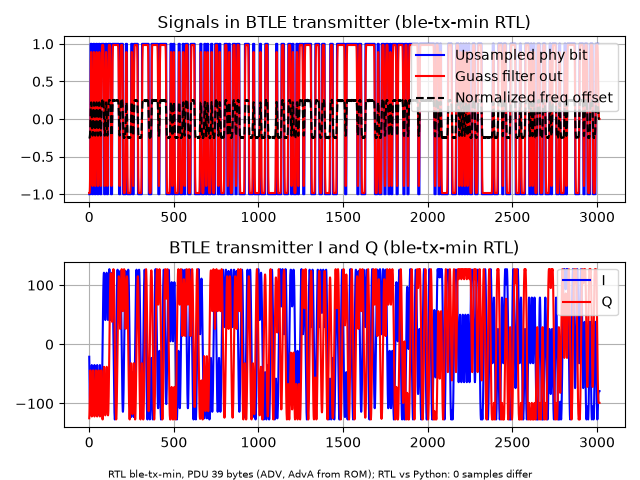
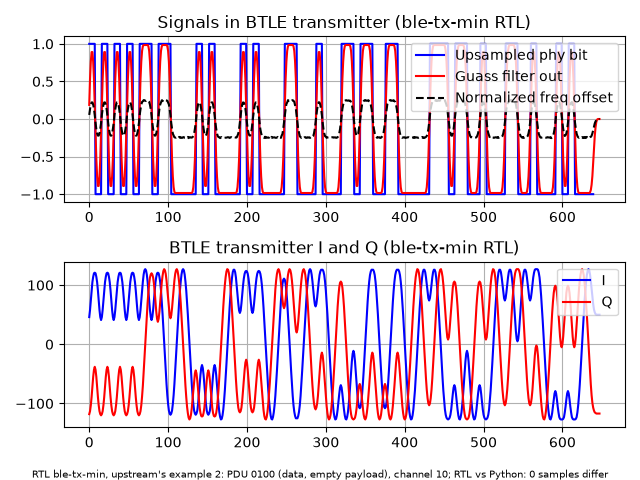
figures: py-fig3/py-fig4 with upstream's own packet, example 2, beside upstream's
The side-by-side figures showed different packets: upstream's example 2
(PDU 0100, channel 10, 656 samples) against our 39-byte ADV PDU (3024
samples), and py-fig4 used 20 ppm where upstream's run uses 0 ppm. The RTL
now sends example 2 itself (channel 10, AA 0x11850A1B, CRC init 0x123456,
20 dB, 0 ppm): 0 samples differ from the Python model, CRC OK. The 39-byte
ADV figures stay as tx_min_py_fig3_adv.png and tx_min_py_fig4_adv.png.

diff --git a/scripts/figures/tx_min_figures.py b/scripts/figures/tx_min_figures.py
@@ -13,8 +13,11 @@ The transmitter is verilog/btle_tx.v with GAUSS_TABLE = 1 (as the branch is meas
 upstream testbench verilog/btle_tx_tb.v plus a monitor of the upsampled bit and the Gaussian filter
 output; everything after it (channel, receiver) is python/btlelib.py, as in the upstream figures.
 Each RTL waveform is also compared with python/btlelib.py's btle_tx: the figures print the number of
-differing samples (0 expected). The packets are Legacy Advertising PDUs (channel 37, the advertising
-access address and CRC init) with the chip's AdvA, ADV_ADDRESS of verilog/btle_tx.v.
+differing samples (0 expected). py-fig3 and py-fig4 are drawn twice: for upstream's own packet
+(example 2 of test_vector_for_btle_verilog.py, the one in open_btle_baseband_chip/py-fig3.png and
+py-fig4.png, so both figures cover the same 640 samples) and for a Legacy Advertising PDU of 39 bytes
+(suffix _adv). The BER packets are Legacy Advertising PDUs (channel 37, the advertising access
+address and CRC init) with the chip's AdvA, ADV_ADDRESS of verilog/btle_tx.v.
 """
 
 from __future__ import annotations
@@ -43,6 +46,9 @@ CAD = Path(os.environ.get("OSS_CAD", str(Path.home() / "eda/oss-cad-suite-202609
 CHANNEL, AA, CRC_INIT = 37, "D6BE898E", "555555"
 # AdvData of upstream's BER packet (test_btle_ber.py): AD local name "SDR/Bluetooth/Low/Energy" + 5 bytes
 ADV_DATA = bytes.fromhex("19095344522f426c7565746f6f74682f4c6f772f456e657267791234567890")
+# Upstream's py-fig3/py-fig4: `python test_vector_for_btle_verilog.py 2` (20 dB, 0 ppm), a data packet
+# with an empty payload (LLID 1, length 0): 80 bits, 640 samples. Its 2 bytes never reach AdvA (bytes 2..7).
+EXAMPLE2 = dict(pdu=bytes.fromhex("0100"), channel=10, aa="1B0A8511", crc_init="123456", snr=20, ppm=0)
 
 TRACE = r"""
 `timescale 1ns/1ps
@@ -102,14 +108,14 @@ class RtlTx:
         self.taps = np.int8(np.round(128 * bl.gauss_fir_gen()))
         self.cos, self.sin = bl.sin_cos_gen(64)
 
-    def run(self, pdu: bytes, tag: str) -> dict:
+    def run(self, pdu: bytes, tag: str, channel: int = CHANNEL, aa: str = AA, crc_init: str = CRC_INIT) -> dict:
         d = self.work / f"run_{tag}"
         d.mkdir()
         for name, data in [("gauss_filter_tap", self.taps), ("cos_table", self.cos), ("sin_table", self.sin)]:
             np.savetxt(d / (name + ".txt"), data, fmt="%d")
         pdu_bit = bl.hex_string_to_bit(pdu.hex())
-        i, q, phy_bit, phy_bit_upsample = bl.btle_tx(pdu_bit, CHANNEL, bl.hex_string_to_bit(CRC_INIT), AA)
-        (d / "btle_config.txt").write_text(f"{len(pdu_bit):x}\n{CHANNEL:x}\n{CRC_INIT}\n{AA}\n")
+        i, q, phy_bit, phy_bit_upsample = bl.btle_tx(pdu_bit, channel, bl.hex_string_to_bit(crc_init), aa)
+        (d / "btle_config.txt").write_text(f"{len(pdu_bit):x}\n{channel:x}\n{crc_init}\n{aa}\n")
         (d / "btle_tx_test_input.txt").write_text("".join(f"{v:02x}\n" for v in pdu))
         np.savetxt(d / "btle_tx_test_output_i_ref.txt", i, fmt="%d")
         np.savetxt(d / "btle_tx_test_output_q_ref.txt", q, fmt="%d")
@@ -134,13 +140,25 @@ def style(ax, title):
 
 
 def fig_tx(out_dir: Path) -> None:
+    adv = dict(pdu=adv_pdu(ADV_DATA), channel=CHANNEL, aa=AA, crc_init=CRC_INIT, snr=20, ppm=20)
     with tempfile.TemporaryDirectory(prefix="tx-min-fig-") as t:
         rtl = RtlTx(Path(t))
-        pdu = adv_pdu(ADV_DATA)
-        r = rtl.run(pdu, "fig")
+        summary = {
+            "example2": _fig_pair(out_dir, rtl, EXAMPLE2, "",
+                                  f"upstream's example 2: PDU 0100 (data, empty payload), channel {EXAMPLE2['channel']}"),
+            "adv": _fig_pair(out_dir, rtl, adv, "_adv", f"PDU {len(adv['pdu'])} bytes (ADV, AdvA from ROM), channel {CHANNEL}"),
+        }
+    (out_dir / "tx_min_figures_tx.json").write_text(json.dumps(summary, indent=2) + "\n")
+    print(json.dumps(summary))
+
+
+def _fig_pair(out_dir: Path, rtl: RtlTx, pkt: dict, suffix: str, what: str) -> dict:
+    """py-fig3 and py-fig4 for one packet, the RTL as the transmitter."""
+    pdu, channel, aa, crc_init = pkt["pdu"], pkt["channel"], pkt["aa"], pkt["crc_init"]
+    r = rtl.run(pdu, "fig" + suffix, channel, aa, crc_init)
     i, q = r["i"].astype(float), r["q"].astype(float)
     fo, _ = bl.check_realtime_fo(i, q)
-    note = f"RTL ble-tx-min, PDU {len(pdu)} bytes (ADV, AdvA from ROM); RTL vs Python: {r['differences']} samples differ"
+    note = f"RTL ble-tx-min, {what}; RTL vs Python: {r['differences']} samples differ"
 
     # py-fig3: signals in the transmitter
     plt.figure(0, figsize=(6.4, 4.8))
@@ -155,16 +173,16 @@ def fig_tx(out_dir: Path) -> None:
     style(ax, "BTLE transmitter I and Q (ble-tx-min RTL)")
     plt.figtext(0.5, 0.005, note, ha="center", fontsize=7)
     plt.tight_layout(rect=(0, 0.03, 1, 1))
-    plt.savefig(out_dir / "tx_min_py_fig3.png", dpi=100)
+    plt.savefig(out_dir / f"tx_min_py_fig3{suffix}.png", dpi=100)
     plt.close()
 
-    # py-fig4: the receiver's decision signal, after the channel (20 dB, 20 ppm, as upstream's example)
+    # py-fig4: the receiver's decision signal, after the channel
     rng_state = np.random.get_state()
     np.random.seed(20261016)
-    i_err, q_err, _, _ = bl.add_freq_sampling_error(i, q, 20)
-    rx_i, rx_q = bl.add_noise(i_err, q_err, 20)
+    i_err, q_err, _, _ = bl.add_freq_sampling_error(i, q, pkt["ppm"])
+    rx_i, rx_q = bl.add_noise(i_err, q_err, pkt["snr"])
     np.random.set_state(rng_state)
-    rx_pdu_bit, crc_ok, num_byte_payload, _, _, _, best = bl.btle_rx(rx_i, rx_q, CHANNEL, bl.hex_string_to_bit(CRC_INIT), AA)
+    rx_pdu_bit, crc_ok, num_byte_payload, _, _, _, best = bl.btle_rx(rx_i, rx_q, channel, bl.hex_string_to_bit(crc_init), aa)
     plt.figure(1, figsize=(6.4, 4.8))
     ax = plt.subplot(211)
     ax.plot(2 * r["upsample"] - 1, "b", label="Upsampled phy bit")
@@ -184,16 +202,15 @@ def fig_tx(out_dir: Path) -> None:
     ax.plot(idx[best::bl.SAMPLE_PER_SYMBOL] - 4, sig[best::bl.SAMPLE_PER_SYMBOL], "rs", label="best phase moment")
     style(ax, "signal for decision in receiver")
     ok = crc_ok and bl.bit_to_hex_string(rx_pdu_bit) == pdu.hex()
-    plt.figtext(0.5, 0.005, f"channel 20 dB SNR, 20 ppm; Python receiver: CRC {'OK' if crc_ok else 'FAIL'}, "
+    plt.figtext(0.5, 0.005, f"channel {pkt['snr']} dB SNR, {pkt['ppm']} ppm; Python receiver: CRC {'OK' if crc_ok else 'FAIL'}, "
                 f"PDU {'equal to the one sent' if ok else 'DIFFERENT'} ({num_byte_payload} payload bytes)",
                 ha="center", fontsize=7)
     plt.tight_layout(rect=(0, 0.03, 1, 1))
-    plt.savefig(out_dir / "tx_min_py_fig4.png", dpi=100)
+    plt.savefig(out_dir / f"tx_min_py_fig4{suffix}.png", dpi=100)
     plt.close()
-    summary = dict(pdu=pdu.hex(), rtl_vs_python_differences=r["differences"], samples=len(i),
-                   rx_crc_ok=bool(crc_ok), rx_pdu_equal=bool(ok), best_phase=int(best))
-    (out_dir / "tx_min_figures_tx.json").write_text(json.dumps(summary, indent=2) + "\n")
-    print(json.dumps(summary))
+    return dict(pdu=pdu.hex(), channel=channel, access_address=aa, crc_init=crc_init, snr_db=pkt["snr"], ppm=pkt["ppm"],
+                rtl_vs_python_differences=r["differences"], samples=len(i),
+                rx_crc_ok=bool(crc_ok), rx_pdu_equal=bool(ok), best_phase=int(best))
 
 
 # ---- BER: RTL transmitter vs Python transmitter, same channel noise ----

diff --git a/docs/TX_FINAL_DECISIONS.md b/docs/TX_FINAL_DECISIONS.md
@@ -100,15 +100,21 @@ is used, and is ready in at most four AXI clocks): no stall, no new timing const
 | upstream (Python model) | `ble-tx-min` (RTL, Icarus) |
 |---|---|
 | ![upstream TX signals](../open_btle_baseband_chip/py-fig3.png) | ![ble-tx-min TX signals](../results/figures/tx-min/tx_min_py_fig3.png) |
-| example 2: a data packet of 2 bytes, channel 10 | a 39-byte ADV_NONCONN_IND (AdvA from the ROM, upstream's BER AdvData), channel 37 |
+| example 2: PDU `0100` (data, empty payload), channel 10 | the same packet: PDU `0100`, channel 10, AA 0x11850A1B, CRC init 0x123456 |
 
 Top: the upsampled PHY bit (±1), the Gaussian filter's output (red, normalized) and the normalized
-frequency deviation measured on the I/Q samples (dashed); bottom: I and Q. Upstream's figure is its
+frequency deviation measured on the I/Q samples (dashed); bottom: I and Q. Both figures are the same
+packet, upstream's example 2 (`test_vector_for_btle_verilog.py 2`): 80 bits, 656 samples, the same axes.
+Its 2 bytes never reach AdvA (bytes 2..7), so the ROM plays no part. Upstream's figure is its
 Python model; ours is the RTL's actual output, captured by the upstream testbench `btle_tx_tb.v` plus a
 monitor of the filter, and compared with the Python model on every sample: **0 samples differ**
 (`results/figures/tx-min/tx_min_figures_tx.json`). Since the samples are the Python model's, the
 frequency deviation is the one upstream checks against the Core spec's 185 kHz minimum (0.185
 normalized): the same tables, taps and modulation index 0.5.
+
+The packet this chip actually sends, a 39-byte ADV_NONCONN_IND (AdvA from the ROM, upstream's BER
+AdvData, channel 37), is 376 bits, 3 024 samples, also 0 samples differ:
+[`tx_min_py_fig3_adv.png`](../results/figures/tx-min/tx_min_py_fig3_adv.png).
 
 ### 3.2 The receiver's decision (upstream's `py-fig4.png`)
 
@@ -116,9 +122,11 @@ normalized): the same tables, taps and modulation index 0.5.
 |---|---|
 | ![upstream RX decision](../open_btle_baseband_chip/py-fig4.png) | ![ble-tx-min RX decision](../results/figures/tx-min/tx_min_py_fig4.png) |
 
-The same waveform after a channel of 20 dB SNR and 20 ppm clock error, demodulated by upstream's
-receiver (`sign(i0·q1 − i1·q0)` on the 8 sampling phases; red: the best phase). With the RTL transmitter:
-CRC OK, the PDU received equal to the one sent (37 payload bytes).
+The same waveform after the channel of upstream's run (20 dB SNR, 0 ppm), demodulated by upstream's
+receiver (`sign(i0·q1 − i1·q0)` on the 8 sampling phases; red: the best phase). The noise is another draw,
+so the small ripples differ. With the RTL transmitter: CRC OK, the PDU received equal to the one sent. The 39-byte
+ADV packet after 20 dB and 20 ppm, also CRC OK and equal to the one sent (37 payload bytes):
+[`tx_min_py_fig4_adv.png`](../results/figures/tx-min/tx_min_py_fig4_adv.png).
 
 ### 3.3 Bit error rate (upstream's `open_btle_baseband_chip_21_1.png`, `_23_1.png`)
 

diff --git a/docs/Validation/TX_MIN_VALIDATION.md b/docs/Validation/TX_MIN_VALIDATION.md
@@ -350,8 +350,9 @@ model, 0 samples differ in every case.
 
 | Figure | Upstream's | What it shows |
 |---|---|---|
-| `tx_min_py_fig3.png` | `py-fig3.png` | a 39-byte ADV PDU (AdvA from the ROM, upstream's BER AdvData): upsampled bit, Gaussian filter output, normalized frequency offset; I and Q, all from the RTL |
-| `tx_min_py_fig4.png` | `py-fig4.png` | the same waveform after a 20 dB, 20 ppm channel, the receiver's decision signal and best phase: CRC OK, the PDU received equal to the one sent |
+| `tx_min_py_fig3.png` | `py-fig3.png` | upstream's own packet, example 2 (PDU `0100`, channel 10, 656 samples, the same axes as upstream's): upsampled bit, Gaussian filter output, normalized frequency offset; I and Q, all from the RTL |
+| `tx_min_py_fig4.png` | `py-fig4.png` | the same waveform after upstream's channel (20 dB, 0 ppm), the receiver's decision signal and best phase: CRC OK, the PDU received equal to the one sent |
+| `tx_min_py_fig3_adv.png`, `tx_min_py_fig4_adv.png` | — | the same two figures for a 39-byte ADV PDU (AdvA from the ROM, upstream's BER AdvData, channel 37, 3 024 samples), the channel 20 dB and 20 ppm: CRC OK, the PDU received equal to the one sent |
 | `tx_min_ber_ppm50.png`, `tx_min_ber_ppm-30.png` | `open_btle_baseband_chip_21_1.png`, `_23_1.png` | BER against SNR at 50 and −30 ppm, 39-byte ADV PDUs with random AdvData (100/200/300/300 packets per point), the transmitter the RTL and, with the same noise, the Python model: the two curves are identical; 0.1 % BER at about 24.5 dB (50 ppm) and 13.8 dB (−30 ppm), as upstream's |
 | `tx_min_area.png` | — | the transmitter's area (logic and macros) of `master`, `ble-tx-rom` and both stores of this branch |
 | `efuse_async_mem_1x8.png`, `efuse_xyce.png` | — | the eFuse block's layout (KLayout) and its Xyce programming and sensing waveforms |
